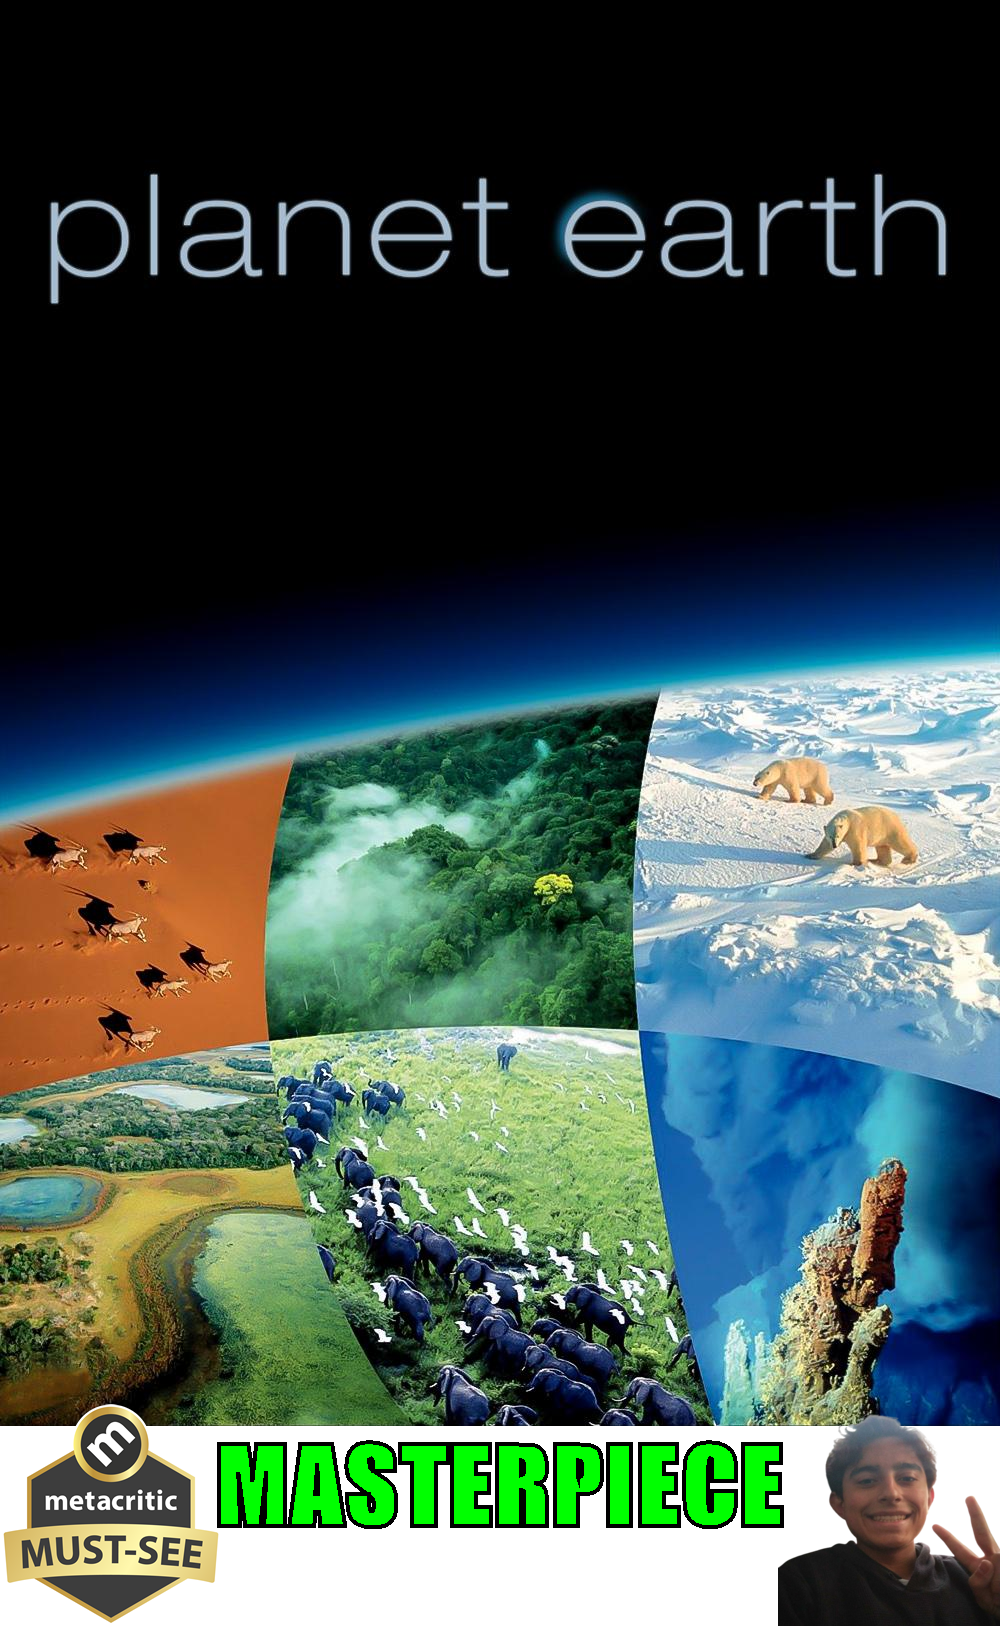
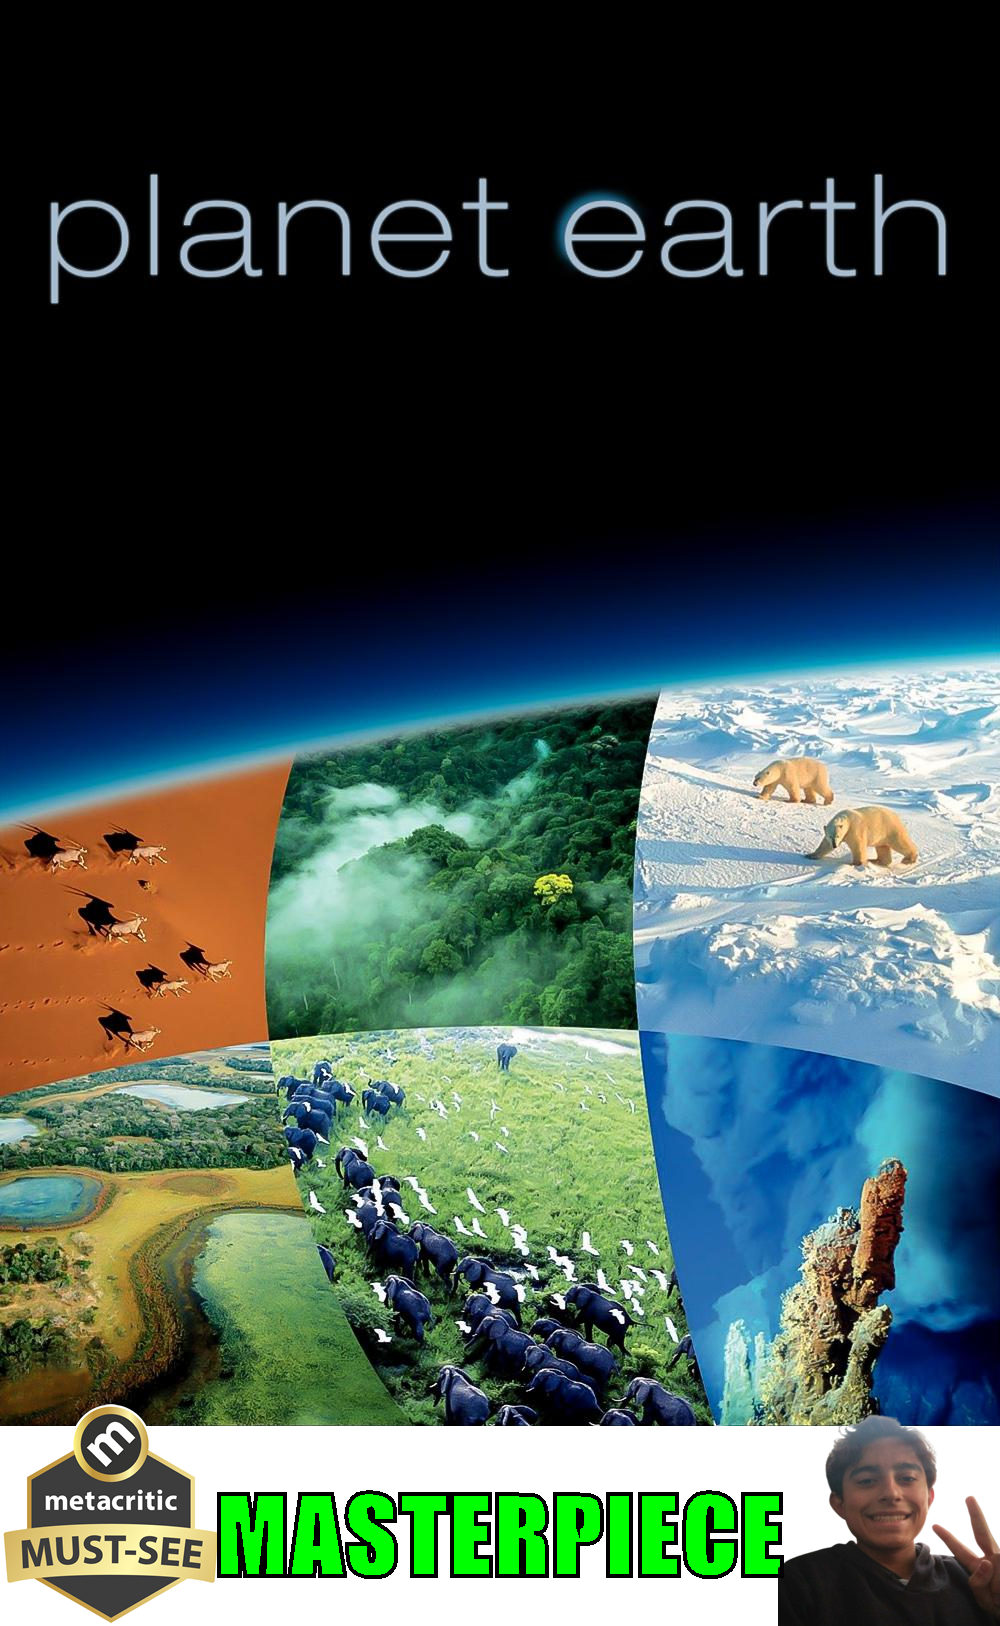
terminando o processo desejado

Changed region(s): [[0.217, 0.861, 0.806, 0.984]]

diff --git a/src/br/com/alura/stickers/Vizualizadores/EscolhaVizualizacao.java b/src/br/com/alura/stickers/Vizualizadores/EscolhaVizualizacao.java
@@ -1,15 +1,17 @@
 package br.com.alura.stickers.Vizualizadores;
 
-import java.io.IOException;
-
-import javax.swing.JFrame;
+import java.io.InputStream;
+import java.io.FileInputStream;
+import java.awt.Color;
+import java.io.File;
 
 import br.com.alura.stickers.Conteudos.Conteudo;
 import br.com.alura.stickers.Conteudos.ConteudoIMDB;
+import br.com.alura.stickers.Conteudos.ConteudoNasa;
 
 public class EscolhaVizualizacao {
 
-  public void escolherVizualizacao(int opcao, Conteudo item) throws IOException{
+  public void escolherVizualizacao(int opcao, Conteudo item) throws Exception{
     if(opcao == 1){
       ConversorASCII conversorASCII = new ConversorASCII();
       System.out.println(conversorASCII.imageParaAscii(item.getUrlImagem()));
@@ -20,7 +22,39 @@ public class EscolhaVizualizacao {
     } else if (opcao == 3){
       GeradorStickers geradorStickers = new GeradorStickers();
       if(item instanceof ConteudoIMDB){
+        ConteudoIMDB itemIMDB = (ConteudoIMDB) item;
+        double notaEmDouble = Double.parseDouble(itemIMDB.getRating());
+        if(notaEmDouble >= 9){
+          InputStream imagemAvaliacao = new FileInputStream(new File("sobreposicao/masterpeca.png"));
+          InputStream imagemPedro = new FileInputStream(new File("sobreposicao/aprovado.png"));
+          geradorStickers.criar(itemIMDB, "MASTERPIECE", imagemAvaliacao, imagemPedro, Color.GREEN);
+        } else if(notaEmDouble < 9 && notaEmDouble >= 8.7){
+          InputStream imagemAvaliacao = new FileInputStream(new File("sobreposicao/bom.png"));
+          InputStream imagemPedro = new FileInputStream(new File("sobreposicao/naMedia.png"));
+          geradorStickers.criar(itemIMDB, "BOM CONTEUDO", imagemAvaliacao, imagemPedro, Color.CYAN);
+        } else{
+          InputStream imagemAvaliacao = new FileInputStream(new File("sobreposicao/ruim.png"));
+          InputStream imagemPedro = new FileInputStream(new File("sobreposicao/umCoco.jpg"));
+          geradorStickers.criar(itemIMDB, "HORRIPILANTE", imagemAvaliacao, imagemPedro, Color.RED);
+        }
         
+      } else if(item instanceof ConteudoNasa){
+        ConteudoNasa itemNasa = (ConteudoNasa) item;
+        String date = itemNasa.getDate().substring(0, 3);
+        double notaEmDouble = Double.parseDouble(date);
+        if(notaEmDouble > 2023){
+          InputStream imagemAvaliacao = new FileInputStream(new File("sobreposicao/masterpeca.png"));
+          InputStream imagemPedro = new FileInputStream(new File("sobreposicao/aprovado.png"));
+          geradorStickers.criar(itemNasa, "FOI ESSE ANO", imagemAvaliacao, imagemPedro, Color.GREEN);
+        } else if(notaEmDouble > 2022){
+          InputStream imagemAvaliacao = new FileInputStream(new File("sobreposicao/bom.png"));
+          InputStream imagemPedro = new FileInputStream(new File("sobreposicao/naMedia.png"));
+          geradorStickers.criar(itemNasa, "FOI ANO PASSADO", imagemAvaliacao, imagemPedro, Color.CYAN);
+        } else{
+          InputStream imagemAvaliacao = new FileInputStream(new File("sobreposicao/ruim.png"));
+          InputStream imagemPedro = new FileInputStream(new File("sobreposicao/umCoco.jpg"));
+          geradorStickers.criar(itemNasa, "FAZ TEMPO JÁ", imagemAvaliacao, imagemPedro, Color.RED);
+        }
       }
     }
   }

diff --git a/src/App.java b/src/App.java
@@ -1,21 +1,11 @@
-import java.awt.Color;
-import java.io.File;
-import java.io.FileInputStream;
-import java.io.InputStream;
-import java.util.ArrayList;
 import java.util.List;
-import java.util.Map;
 import java.util.Scanner;
 
 import BuscarAPI.BuscadorAPI;
-import br.com.alura.stickers.Conteudos.Conteudo;
 import br.com.alura.stickers.Conteudos.ConteudoIMDB;
 import br.com.alura.stickers.Conteudos.ConteudoNasa;
-import br.com.alura.stickers.Extratores.Extrator;
 import br.com.alura.stickers.Extratores.ExtratorIMDB;
 import br.com.alura.stickers.Extratores.ExtratorNasa;
-import br.com.alura.stickers.Vizualizadores.ConversorASCII;
-import br.com.alura.stickers.Vizualizadores.CriadorJFrame;
 import br.com.alura.stickers.Vizualizadores.EscolhaVizualizacao;
 
 public class App {
@@ -39,33 +29,38 @@ public class App {
 
             for(ConteudoIMDB item : listaConteudos){
                 System.out.println("\u001b[1mTitulo:\u001b[m " + item.getTitulo());
-                System.out.println("\u001b[1mTitulo:\u001b[m " + item.getUrlImagem());
-                System.out.println("\u001b[1mTitulo:\u001b[m " + item.getRating());
+                System.out.println("\u001b[1mImagem:\u001b[m " + item.getUrlImagem());
+                System.out.println("\u001b[1mRating:\u001b[m " + item.getRating());
                 double notaEmDouble = Double.parseDouble(item.getRating());
                 imprimirEstrelas(notaEmDouble);
-                
+
                 cc.close();
                 EscolhaVizualizacao escolha = new EscolhaVizualizacao();
                 escolha.escolherVizualizacao(opcaoVizualicao, item);
 
             }
-        } else{
+        } 
+        else if (buscadorAPI.getTipoBuscado() == 3) {
             ExtratorNasa extrator = new ExtratorNasa();
-            List<ConteudoNasa> listaConteudos =  extrator.extrai(json);
+            List<ConteudoNasa> listaConteudos = extrator.extrai(json);
             // MENU escolha de modo de imagem
             Scanner cc = new Scanner(System.in);
-
             // Opções de modo de imagem
             System.out.println("Como você deseja vizualizar as imagens dos filmes/series?");
             System.out.println("1- ASCII | 2- JFRAME | 3- Figurinhas");
             int opcaoVizualicao = cc.nextInt();
-            cc.close();
 
-            for(Conteudo item: listaConteudos){
+            for(ConteudoNasa item : listaConteudos){
+                System.out.println("\u001b[1mTitulo:\u001b[m " + item.getTitulo());
+                System.out.println("\u001b[1mImagem:\u001b[m " + item.getUrlImagem());
+                System.out.println("\u001b[1mDate:\u001b[m " + item.getDate());
                 
+                cc.close();
+                EscolhaVizualizacao escolha = new EscolhaVizualizacao();
+                escolha.escolherVizualizacao(opcaoVizualicao, item);
             }
-
         }
+    }
 
 
         // // MENU escolha de modo de imagem
@@ -117,7 +112,7 @@ public class App {
         //     }
         //     }
         // }
-        }
+        
     public static void imprimirEstrelas(double notaEmDouble) {
 
         int notaEmInt = (int) notaEmDouble;

diff --git a/src/br/com/alura/stickers/Vizualizadores/GeradorStickers.java b/src/br/com/alura/stickers/Vizualizadores/GeradorStickers.java
@@ -12,33 +12,20 @@ import java.awt.font.FontRenderContext;
 import java.awt.font.TextLayout;
 import java.io.File;
 import java.io.InputStream;
-import java.net.MalformedURLException;
 import java.net.URL;
 
 import javax.imageio.ImageIO;
+
+import br.com.alura.stickers.Conteudos.Conteudo;
 
 public class GeradorStickers {
  
   public GeradorStickers() {
   }
 
-  public void criarNasa(){
-
-  }
-
-  public void criarIMDB(String urlImagem, String nomeFilme, String fraseAdicionada, InputStream imagemAvaliacao, InputStream imagemPedro, Color cor) throws Exception{
-
-    BufferedImage novaImagem = criarPadrao(urlImagem, nomeFilme, fraseAdicionada, imagemAvaliacao, imagemPedro, cor);
-
-    // Escrever em arquivo
-    nomeFilme = nomeFilme.replaceAll(":", "");
-    ImageIO.write(novaImagem, "png", new File("saida/" + nomeFilme + ".png"));
-
-  }
-
-  public BufferedImage criarPadrao(String urlImagem, String nomeFilme, String fraseAdicionada, InputStream imagemAvaliacao, InputStream imagemPedro, Color cor) throws Exception{
+  public void criar(Conteudo item, String fraseAdicionada, InputStream imagemAvaliacao, InputStream imagemPedro, Color cor) throws Exception{
       // Passando a imagem para URL
-      URL urlImagemURL =  new URL(urlImagem);
+      URL urlImagemURL =  new URL(item.getUrlImagem());
 
       // Leitura da Imagem
       BufferedImage imagemOriginal = ImageIO.read(urlImagemURL);
@@ -89,7 +76,10 @@ public class GeradorStickers {
       graphics.setColor(Color.BLACK);
       graphics.draw(outline);
       graphics.setClip(outline);
-      return novaImagem;
+
+      String nomeFilme = item.getTitulo().replaceAll(":", "");
+      ImageIO.write(novaImagem, "png", new File("saida/" + nomeFilme + ".png"));
+
   }
 
 }

diff --git a/src/br/com/alura/stickers/JsonParsers/JsonParser.java b/src/br/com/alura/stickers/JsonParsers/JsonParser.java
@@ -1,4 +1,4 @@
-package br.com.alura.stickers.JsonParser;
+package br.com.alura.stickers.JsonParsers;
 import java.util.ArrayList;
 import java.util.HashMap;
 import java.util.List;
@@ -7,16 +7,15 @@ import java.util.regex.Matcher;
 import java.util.regex.Pattern;
 
 public class JsonParser {
-
+    
     private static final Pattern REGEX_ITEMS = Pattern.compile(".*\\[(.+)\\].*");
     private static final Pattern REGEX_ATRIBUTOS_JSON = Pattern.compile("\"(.+?)\":\"(.*?)\"");
-    
-    public List<Map<String, String>> parse(String json) {
 
+    public List<Map<String, String>> parse(String json) {
         Matcher matcher = REGEX_ITEMS.matcher(json);
         if (!matcher.find()) {
 
-            throw new IllegalArgumentException("Não encontrou items.");
+            return List.of(parseAttributes(json));
         }
 
         String[] items = matcher.group(1).split("\\},\\{");
@@ -38,6 +37,19 @@ public class JsonParser {
         }
 
         return dados;
+    } 
 
+    private Map<String, String> parseAttributes(String item) {
+        Matcher matcherAtributosJson = REGEX_ATRIBUTOS_JSON.matcher(item);
+    
+        Map<String, String> atributosItem = new HashMap<>();
+        while (matcherAtributosJson.find()) {
+            String atributo = matcherAtributosJson.group(1);
+            String valor = matcherAtributosJson.group(2);
+            atributosItem.put(atributo, valor);
+        }
+    
+        return atributosItem;
     }
+
 }

diff --git a/src/BuscarAPI/BuscadorAPI.java b/src/BuscarAPI/BuscadorAPI.java
@@ -65,11 +65,11 @@ public class BuscadorAPI {
         this.tipoBuscado = opcao;
     }  else if(opcao == 3){
         this.url = "https://api.nasa.gov/planetary/apod?api_key=whLrBn3wuZs7z1dG6CkcdQSGA7dnw1kNkNEDpbmR";
-        this.tipoBuscado = opcao;
-     } else {
-            throw new RuntimeException("Opção Indisponivel");
+        this.tipoBuscado = opcao; 
     }
+    else{
+            throw new RuntimeException("Opção Indisponivel");
+    } 
     }
 
-    
 }

diff --git a/src/br/com/alura/stickers/Extratores/ExtratorNasa.java b/src/br/com/alura/stickers/Extratores/ExtratorNasa.java
@@ -2,8 +2,9 @@ package br.com.alura.stickers.Extratores;
 import java.util.ArrayList;
 import java.util.List;
 import java.util.Map;
+
 import br.com.alura.stickers.Conteudos.ConteudoNasa;
-import br.com.alura.stickers.JsonParser.JsonParser;
+import br.com.alura.stickers.JsonParsers.JsonParser;
 
 public class ExtratorNasa{
   public List<ConteudoNasa> extrai(String json){

diff --git a/src/br/com/alura/stickers/Extratores/ExtratorIMDB.java b/src/br/com/alura/stickers/Extratores/ExtratorIMDB.java
@@ -4,7 +4,7 @@ import java.util.List;
 import java.util.Map;
 
 import br.com.alura.stickers.Conteudos.ConteudoIMDB;
-import br.com.alura.stickers.JsonParser.JsonParser;
+import br.com.alura.stickers.JsonParsers.JsonParser;
 
 public class ExtratorIMDB{
   public List<ConteudoIMDB> extrai(String json){

diff --git a/src/FiltradorLista.java b/src/FiltradorLista.java
@@ -1,7 +1,7 @@
 import java.util.List;
 import java.util.Map;
 
-import br.com.alura.stickers.JsonParser.JsonParser;
+import br.com.alura.stickers.JsonParsers.JsonParser;
 
 public class FiltradorLista {
   
